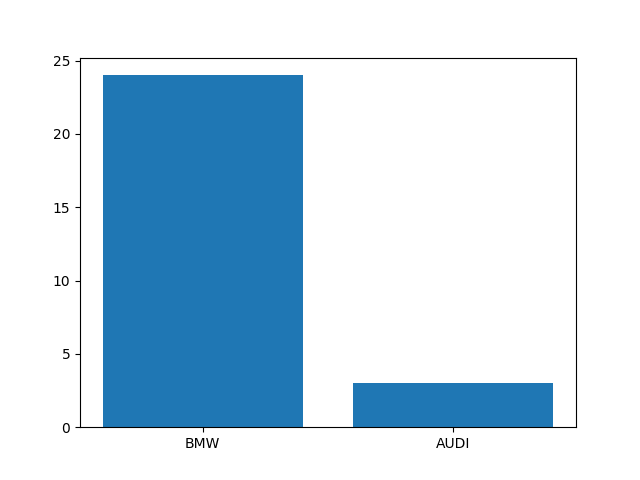
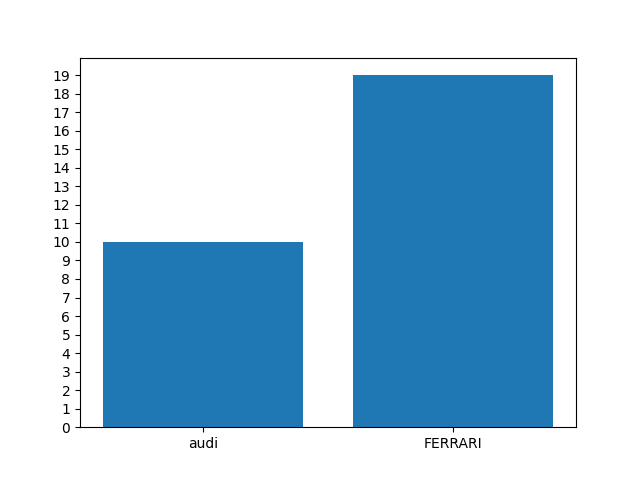
fixed footer,graph,url

diff --git a/templates/users/rogerjoe/beverage_2_vote.html b/templates/users/rogerjoe/beverage_2_vote.html
@@ -1,7 +1,7 @@
 <!DOCTYPE html>
 <html>
   <head>
-<title>POLLING</title>
+<title>VOTE IT</title>
 <base href="/index.html">
 <meta name = "viewport" content = "width=device-width, initial-scale = 1.0">
 <meta name="keywords" content="docker-compose, docker, stack">
@@ -16,8 +16,7 @@
             window.history.forward();
         }
     </script>
-  <body onload="noBack();" onpageshow="if (event.persisted) noBack();" onunload="">
-<style>
+  <style>
 body, html {
   height: 100%;
   font-family: 'Josefin Sans', sans-serif;
@@ -35,17 +34,23 @@ body, html {
   display: none;
 }
 </style>
+  <body onload="noBack();" onpageshow="if (event.persisted) noBack();" onunload="">
+
 
     <div id="content-container" class="bgimg">
       <div id="content-container-center">
-        <h1 style="color: red">{{  user_status }} </h1><br>
           <h3 class="textfield" >{{  title  }}</h3>
-    <form id="choice" method="post" action="/{{  uname  }}/{{ poll_key }}/{{  title  }}/votenow">
-    <span class="textfield" >Contestant 1</span> <input type="text" placeholder="type here" required name="text_title1"></br> <span class="textfield" >Contestant 2</span> <input type="text" placeholder="type here" required name="text_title2"></br> <span class="textfield" >Contestant 3</span> <input type="text" placeholder="type here" required name="text_title3"></br> 
+    <form id="choice" method="post" action="/{{  uname  }}/{{ poll_key }}/{{  title  }}/vote">
+    <button value="tea" type="submit" name="elector" class="a" >tea</button></br>
+    <button value="coFFee" type="submit" name="elector" class="a" >coFFee</button></br>
+    
  <!--         <input type="file" id="myFile" name="filename"><br/><br/><br/><br/> -->
-      <button value="{{  poll_key  }}" type="submit" name="pet" class="a" style="color: blue">CREATE POLLING</button>
     </form>
-
+                  <br/><br/><br/><br/>
+        <div id="tip">
+          (Tip: you can vote just once)
+            {{ url }}
+        </div>
         <div id="hostname">
  <!--         Processed by container ID {{hostname}} -->
         </div>
@@ -56,10 +61,10 @@ body, html {
      <footer class="footer footer-default">
         <div class="container">
             <div class="copyright w3-center">
-  <p>Author: Swapnil Joshi<br>
+    <p>Author: Swapnil Joshi<br>
   <a href="mailto:swapniljoshisj20@gmail.com">swapniljoshisj20@gmail.com</a><br>
-  <a href="https://github.com/swapnilsocial">github@swapnilsocial</a><br>
-  <a href="https://www.linkedin.com/in/swapnilsocial">linkedin@swapnilsocial</a></p>
+  <a href="https://github.com/swapnilsocial">swapnilsocial@github</a><br>
+  <a href="https://www.linkedin.com/in/swapnilsocial">swapnilsocial@linkedin</a></p>
             </div>
             <div class="row">
                 <div class="col-12 text-center">

diff --git a/templates/users/rogerjoe/beverage_2.html b/templates/users/rogerjoe/beverage_2.html
@@ -1,7 +1,7 @@
 <!DOCTYPE html>
 <html>
   <head>
-<title>VOTE IT</title>
+<title>POLLING</title>
 <base href="/index.html">
 <meta name = "viewport" content = "width=device-width, initial-scale = 1.0">
 <meta name="keywords" content="docker-compose, docker, stack">
@@ -16,8 +16,7 @@
             window.history.forward();
         }
     </script>
-  <body onload="noBack();" onpageshow="if (event.persisted) noBack();" onunload="">
-<style>
+  <style>
 body, html {
   height: 100%;
   font-family: 'Josefin Sans', sans-serif;
@@ -36,21 +35,18 @@ body, html {
 }
 </style>
 
+  <body onload="noBack();" onpageshow="if (event.persisted) noBack();" onunload="">
+
     <div id="content-container" class="bgimg">
       <div id="content-container-center">
+        <h1 style="color: red">{{  user_status }} </h1><br>
           <h3 class="textfield" >{{  title  }}</h3>
-    <form id="choice" method="post" action="/{{  uname  }}/{{ poll_key }}/{{  title  }}/vote">
-    <button value="GOA" type="submit" name="elector" class="a" >GOA</button></br>
-    <button value="CORBETTE" type="submit" name="elector" class="a" >CORBETTE</button></br>
-    <button value="MANALI" type="submit" name="elector" class="a" >MANALI</button></br>
-    
+    <form id="choice" method="post" action="/{{  uname  }}/{{ poll_key }}/{{  title  }}/votenow">
+    <span class="textfield" >Contestant 1</span> <input type="text" placeholder="type here" required name="text_title1"></br> <span class="textfield" >Contestant 2</span> <input type="text" placeholder="type here" required name="text_title2"></br> 
  <!--         <input type="file" id="myFile" name="filename"><br/><br/><br/><br/> -->
+      <button value="{{  poll_key  }}" type="submit" name="pet" class="a" style="color: blue">CREATE POLLING</button>
     </form>
-                  <br/><br/><br/><br/>
-        <div id="tip">
-          (Tip: you can vote just once)
-            {{ url }}
-        </div>
+
         <div id="hostname">
  <!--         Processed by container ID {{hostname}} -->
         </div>
@@ -61,10 +57,10 @@ body, html {
      <footer class="footer footer-default">
         <div class="container">
             <div class="copyright w3-center">
-  <p>Author: Swapnil Joshi<br>
+    <p>Author: Swapnil Joshi<br>
   <a href="mailto:swapniljoshisj20@gmail.com">swapniljoshisj20@gmail.com</a><br>
-  <a href="https://github.com/swapnilsocial">github@swapnilsocial</a><br>
-  <a href="https://www.linkedin.com/in/swapnilsocial">linkedin@swapnilsocial</a></p>
+  <a href="https://github.com/swapnilsocial">swapnilsocial@github</a><br>
+  <a href="https://www.linkedin.com/in/swapnilsocial">swapnilsocial@linkedin</a></p>
             </div>
             <div class="row">
                 <div class="col-12 text-center">

diff --git a/templates/users/rogerjoe/car_2.html b/templates/users/rogerjoe/car_2.html
@@ -1,7 +1,7 @@
 <!DOCTYPE html>
 <html>
   <head>
-<title>VOTE IT</title>
+<title>POLLING</title>
 <base href="/index.html">
 <meta name = "viewport" content = "width=device-width, initial-scale = 1.0">
 <meta name="keywords" content="docker-compose, docker, stack">
@@ -34,23 +34,19 @@ body, html {
   display: none;
 }
 </style>
-  <body onload="noBack();" onpageshow="if (event.persisted) noBack();" onunload="">
 
+  <body onload="noBack();" onpageshow="if (event.persisted) noBack();" onunload="">
 
     <div id="content-container" class="bgimg">
       <div id="content-container-center">
+        <h1 style="color: red">{{  user_status }} </h1><br>
           <h3 class="textfield" >{{  title  }}</h3>
-    <form id="choice" method="post" action="/{{  uname  }}/{{ poll_key }}/{{  title  }}/vote">
-    <button value="audi" type="submit" name="elector" class="a" >audi</button></br>
-    <button value="FERRARI" type="submit" name="elector" class="a" >FERRARI</button></br>
-    
+    <form id="choice" method="post" action="/{{  uname  }}/{{ poll_key }}/{{  title  }}/votenow">
+    <span class="textfield" >Contestant 1</span> <input type="text" placeholder="type here" required name="text_title1"></br> <span class="textfield" >Contestant 2</span> <input type="text" placeholder="type here" required name="text_title2"></br> 
  <!--         <input type="file" id="myFile" name="filename"><br/><br/><br/><br/> -->
+      <button value="{{  poll_key  }}" type="submit" name="pet" class="a" style="color: blue">CREATE POLLING</button>
     </form>
-                  <br/><br/><br/><br/>
-        <div id="tip">
-          (Tip: you can vote just once)
-            {{ url }}
-        </div>
+
         <div id="hostname">
  <!--         Processed by container ID {{hostname}} -->
         </div>

diff --git a/templates/users/rogerjoe/car_2_vote.html b/templates/users/rogerjoe/car_2_vote.html
@@ -41,8 +41,8 @@ body, html {
       <div id="content-container-center">
           <h3 class="textfield" >{{  title  }}</h3>
     <form id="choice" method="post" action="/{{  uname  }}/{{ poll_key }}/{{  title  }}/vote">
+    <button value="bmw" type="submit" name="elector" class="a" >bmw</button></br>
     <button value="audi" type="submit" name="elector" class="a" >audi</button></br>
-    <button value="FERRARI" type="submit" name="elector" class="a" >FERRARI</button></br>
     
  <!--         <input type="file" id="myFile" name="filename"><br/><br/><br/><br/> -->
     </form>

diff --git a/server.py b/server.py
@@ -83,7 +83,7 @@ def vote_now(uname, poll_key, title):
         # load data in json
         vfs.update_votes_dynamic(uname, poll_key, user_dictionary)
         vfs.dynamic_vote_template(poll_key, uname, list_con)
-        url = 'Share url so others can vote - http://192.168.1.9:8025/' + uname + '/' + poll_key + '/' + title + '/votenow'
+        url = 'Share url so others can vote - http://swapnilsocial.pythonanywhere.com/' + uname + '/' + poll_key + '/' + title + '/votenow'
         template_name = vfs.dynamic_vote_template(poll_key, uname, list_con)
         page = '/users/' + uname + '/' + template_name
         return render_template(page, poll_key=poll_key, title=title, theme=theme, uname=uname, url=url)
@@ -99,8 +99,11 @@ def dynamic_vote(uname, poll_key, title):
     result = vfs.fetch_page_stats_from_json(PAGE_HOME)
     updated_result = {}
     all_values = []
+    all_keys_upper = []
     all_keys = list(result.keys())
     dic_len = len(all_keys)
+    for i in range(0,dic_len):
+        all_keys_upper.append(all_keys[i].upper())
     # check voter stats
     if vfs.ip_check_add(uname, poll_key, ip_address) == 'no':
         status = "You have voted once already"
@@ -117,11 +120,11 @@ def dynamic_vote(uname, poll_key, title):
     vote_stats = ' votes and '.join("{}: {}".format(k, v) for k, v in result.items()) + ' votes'
     # create a pie chart here
     result_file = os.path.join(USER_FOLDER + "/static/users/" + uname, poll_key + "_results.png")
-    print(all_values, all_keys)
+    print(all_values, all_keys_upper)
     if max(all_values) < 21:
         new_list = range(0, max(all_values)+2)
         plt.yticks(new_list)
-    x = np.array(all_keys)
+    x = np.array(all_keys_upper)
     y = np.array(all_values)
     plt.bar(x, y)
     plt.savefig(result_file)
